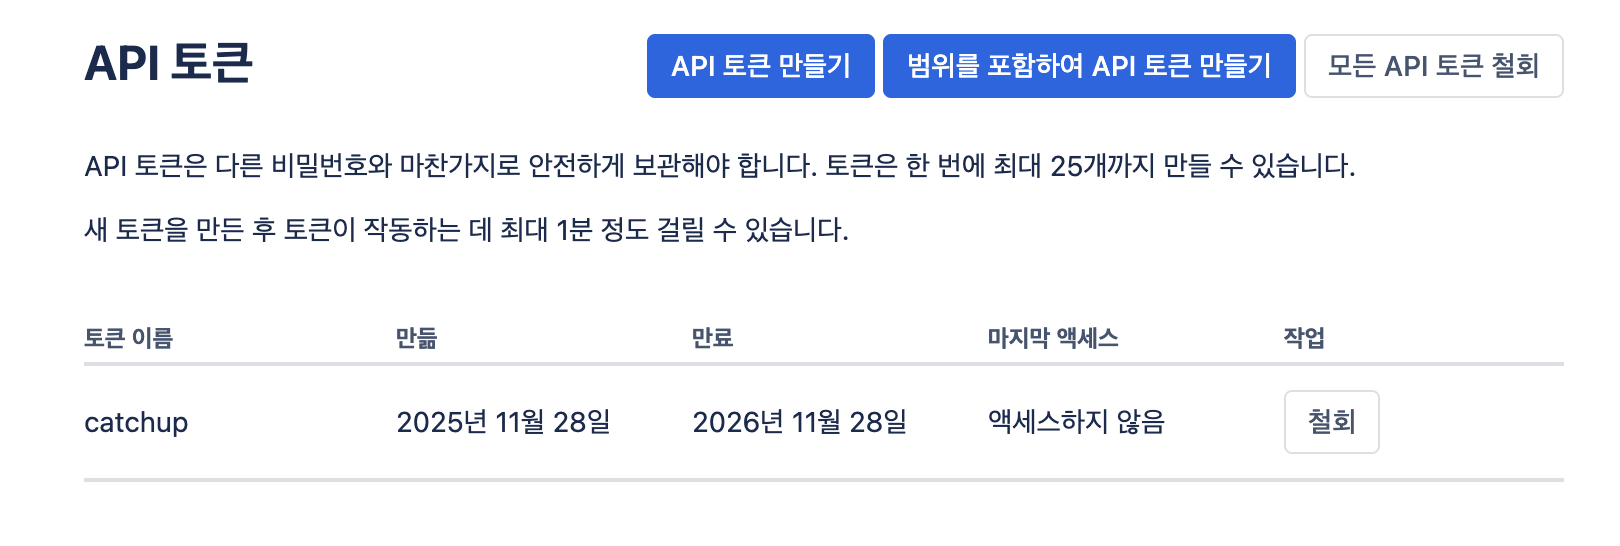
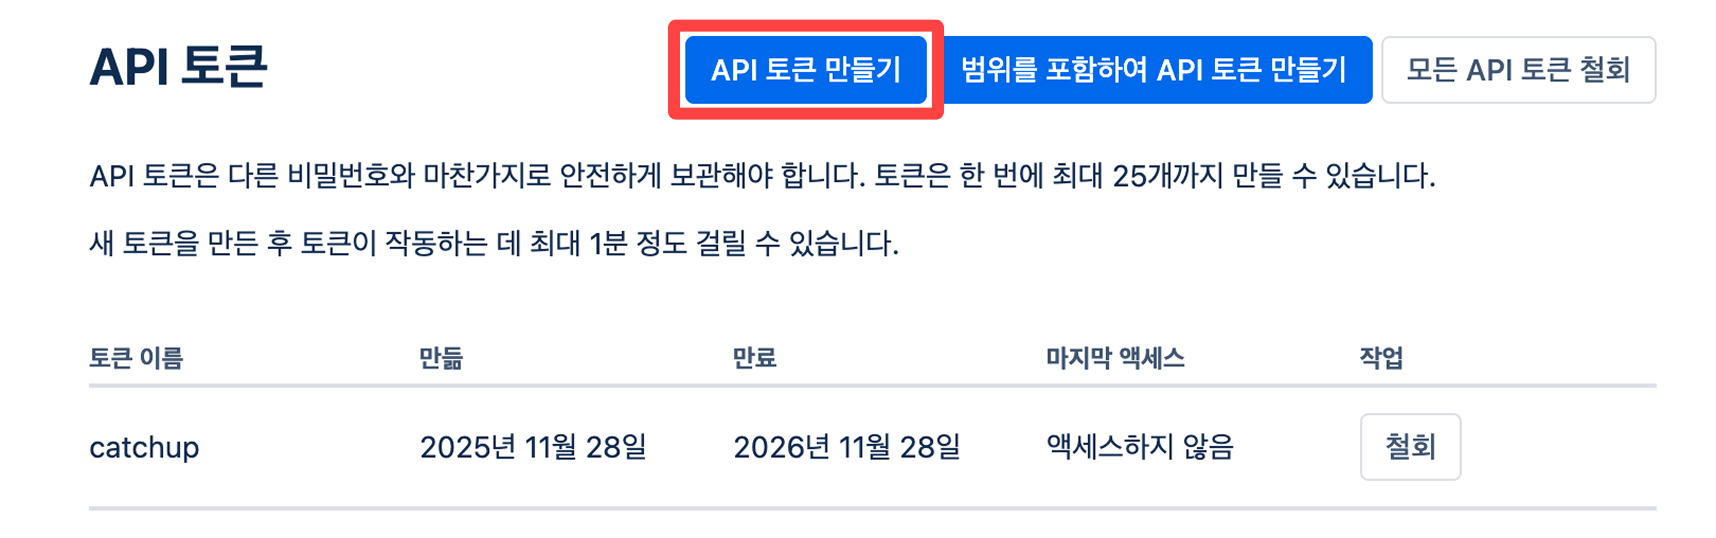
feat(frontend): syncFlush 동기화 버튼 연동 및 GitHub/Slack 가이드 섹션 추가

diff --git a/frontend/src/features/mypage/integrations/components/management/GithubGuideSection.tsx b/frontend/src/features/mypage/integrations/components/management/GithubGuideSection.tsx
@@ -1,0 +1,96 @@
+import Image from 'next/image';
+
+import { GITHUB_GUIDE_IMAGES, GITHUB_PROFILE_URL } from '../../constants/integrations';
+
+import IconGitHub from '/public/icons/logo/GitHub.svg';
+
+/** GitHub 연동 가이드 섹션 */
+const GithubGuideSection = () => {
+  return (
+    <div className="border-neutral-3 flex flex-col gap-10 overflow-clip rounded-xl border bg-white p-6">
+      {/* 인트로 */}
+      <div className="flex flex-col gap-2">
+        <h4 className="text-heading-medium text-gray-80">
+          코드가 담고 있는 맥락, 이제 한 번에 찾아요.
+        </h4>
+        <p className="text-label-small text-gray-80">
+          개발자의 코드는 확실한 결과물이지만, &apos;왜 이렇게 짰는지&apos;에 대한 맥락은 파편화되어
+          있습니다. PR을 뒤지고, 커밋 기록을 따라가다 보면 흐름이 끊기고 시간만 새게 되죠. Catch Up은
+          흩어진 코드의 맥락을 연결해, 팀이 다시 일의 흐름을 이어갈 수 있게 돕습니다.
+        </p>
+      </div>
+
+      {/* 1. GitHub 앱 설치 및 권한 승인 */}
+      <div className="flex flex-col gap-2">
+        <h4 className="text-heading-medium text-gray-80">1. GitHub 앱 설치 및 권한 승인</h4>
+        <div className="border-neutral-3 overflow-clip rounded-xl border bg-white px-4 py-2.5">
+          <Image
+            src={GITHUB_GUIDE_IMAGES.integrationPage}
+            alt="Catch Up 협업 툴 연동 페이지 - GitHub 계정 등록하기"
+            quality={100}
+            className="h-auto w-full"
+          />
+        </div>
+        <p className="text-label-small text-gray-80">
+          Catch Up 협업 툴 연동 페이지에서 &apos;계정 등록하기&apos; 버튼을 클릭합니다.
+        </p>
+        <div className="border-neutral-3 overflow-clip rounded-xl border bg-white px-4 py-2.5">
+          <Image
+            src={GITHUB_GUIDE_IMAGES.appInstall}
+            alt="GitHub 앱 설치 및 Organization 선택 화면"
+            quality={100}
+            className="h-auto w-full"
+          />
+        </div>
+        <p className="text-label-small text-gray-80">
+          이후 GitHub 연동 페이지로 이동하여 팀이 함께 볼 Organization을 선택하고 접근 권한을
+          승인해주세요.
+        </p>
+        <button
+          type="button"
+          onClick={() => window.open(GITHUB_PROFILE_URL, '_blank')}
+          className="border-neutral-4 flex cursor-pointer items-start gap-4 rounded-xl border px-3 py-2 text-left"
+        >
+          <div className="flex size-10 shrink-0 items-center justify-center bg-white">
+            <IconGitHub className="size-6" />
+          </div>
+          <div className="flex min-w-0 flex-col">
+            <span className="text-body-xsmall text-gray-80">GitHub account</span>
+            <span className="text-label-xsmall truncate text-gray-50">{GITHUB_PROFILE_URL}</span>
+          </div>
+        </button>
+      </div>
+
+      {/* 2. 동기화할 Repository 선택 */}
+      <div className="flex flex-col gap-2">
+        <h4 className="text-heading-medium text-gray-80">2. 동기화할 Repository 선택</h4>
+        <div className="border-neutral-3 overflow-clip rounded-xl border bg-white px-4 py-2.5">
+          <Image
+            src={GITHUB_GUIDE_IMAGES.repository}
+            alt="GitHub Repository 선택 화면"
+            quality={100}
+            className="h-auto w-full"
+          />
+        </div>
+        <p className="text-label-small text-gray-80">
+          권한이 확인된 Repository 목록 중, 팀의 지식으로 활용할 곳만 최종 선택합니다. 명시적으로
+          선택하지 않은 공간의 데이터는 절대 접근하지 않습니다.
+        </p>
+      </div>
+
+      {/* 3. Github 데이터의 지식화 */}
+      <div className="flex flex-col gap-2">
+        <h4 className="text-heading-medium text-gray-80">3. Github 데이터의 지식화</h4>
+        <p className="text-label-small text-gray-80">
+          동기화된 텍스트는 Catch Up의 AI가 요약하고 임베딩하여, 질문에 맞는 핵심 답과 코드
+          원문(딥링크)을 함께 제공할 준비를 마칩니다. 이후의 모든 업데이트는 실시간으로 반영됩니다.
+        </p>
+      </div>
+
+      {/* 클로징 */}
+      <p className="text-label-small text-black">찾느라 쓰던 시간, 이제 개발에 집중하세요</p>
+    </div>
+  );
+};
+
+export default GithubGuideSection;

diff --git a/frontend/src/features/mypage/integrations/components/management/SlackGuideSection.tsx b/frontend/src/features/mypage/integrations/components/management/SlackGuideSection.tsx
@@ -1,0 +1,68 @@
+import Image from 'next/image';
+
+import { SLACK_GUIDE_IMAGES } from '../../constants/integrations';
+
+/** Slack 연동 가이드 섹션 */
+const SlackGuideSection = () => {
+  return (
+    <div className="border-neutral-3 flex flex-col gap-10 overflow-clip rounded-xl border bg-white p-6">
+      {/* 인트로 */}
+      <div className="flex flex-col gap-2">
+        <h4 className="text-heading-medium text-gray-80">
+          결정이 내려진 순간의 대화, 휘발되지 않는 자산으로
+        </h4>
+        <p className="text-label-small text-gray-80">
+          공식 문서에는 없는 진짜 이유와 빠른 결정들은 보통 Slack 스레드 어딘가에 남아있습니다. 하지만
+          과거의 대화를 찾으려 스크롤을 올리는 일은 팀 전체의 시간 낭비입니다. Catch Up은 대화 속에 숨은
+          맥락을 찾아, 누가 알아? 하고 사람을 부르는 일을 줄여줍니다.
+        </p>
+      </div>
+
+      {/* 1. 워크스페이스 연결 */}
+      <div className="flex flex-col gap-2">
+        <h4 className="text-heading-medium text-gray-80">1. 워크스페이스 연결</h4>
+        <div className="border-neutral-3 overflow-clip rounded-xl border bg-white px-4 py-2.5">
+          <Image
+            src={SLACK_GUIDE_IMAGES.integrationPage}
+            alt="Catch Up 협업 툴 연동 페이지 - Slack 연동"
+            quality={100}
+            className="h-auto w-full"
+          />
+        </div>
+        <p className="text-label-small text-gray-80">
+          Catch Up 협업 툴 연동 페이지에서 &apos;계정 등록하기&apos; 버튼을 클릭합니다.
+        </p>
+        <p className="text-label-small text-gray-80">
+          Slack 연동 페이지에서 권한을 승인하고 연결할 Workspace를 선택합니다.
+        </p>
+      </div>
+
+      {/* 2. Catch Up 봇 초대 */}
+      <div className="flex flex-col gap-2">
+        <h4 className="text-heading-medium text-gray-80">2. Catch Up 봇 초대</h4>
+        <p className="text-label-small text-gray-80">
+          데이터 수집을 허용할 채널에 접속하여 /invite @CatchupConnector 명령어를 입력해 봇을
+          초대해주세요. 정보 보호를 위해 개인 간 다이렉트 메시지(DM) 및 그룹 DM은 철저히 연동 대상에서
+          제외됩니다.
+        </p>
+      </div>
+
+      {/* 3. 채널 확인 및 동기화 */}
+      <div className="flex flex-col gap-2">
+        <h4 className="text-heading-medium text-gray-80">3. 채널 확인 및 동기화</h4>
+        <p className="text-label-small text-gray-80">
+          Catch Up 화면에서 봇이 정상적으로 초대된 채널을 확인한 뒤 동기화를 시작합니다. 긴 스레드의
+          대화라도 AI가 핵심만 먼저 정리하여 답을 주고, 필요할 땐 원문 스레드로 바로 넘어가 전체 맥락을
+          확인할 수 있습니다.
+        </p>
+      </div>
+
+      {/* 클로징 */}
+      <p className="text-label-small text-black">
+        대화는 흘러가도, 팀이 합의한 지식은 남겨둡니다.
+      </p>
+    </div>
+  );
+};
+
+export default SlackGuideSection;

diff --git a/frontend/src/features/mypage/integrations/components/management/JiraGuideSection.tsx b/frontend/src/features/mypage/integrations/components/management/JiraGuideSection.tsx
@@ -23,26 +23,16 @@ const JiraGuideSection = () => {
       {/* 1. Atlassian 사이트 연결 및 권한 승인 */}
       <div className="flex flex-col gap-2">
         <h4 className="text-heading-medium text-gray-80">1. Atlassian 사이트 연결 및 권한 승인</h4>
-        <div className="border-neutral-3 relative overflow-clip rounded-xl border bg-white px-4 py-2.5">
-          <Image
-            src={JIRA_GUIDE_IMAGES.integrationPage}
-            alt="Catch Up 협업 툴 연동 페이지 - 연동하기 버튼"
-            quality={100}
-            className="h-auto w-full"
-          />
-          <div className="pointer-events-none absolute bottom-[20px] left-[21px] h-6 w-[125px] border-[3px] border-red-50 rounded-sm" />
-        </div>
         <p className="text-label-small text-gray-80">
-          Catch Up 협업 툴 연동 페이지에서 &apos;연동하기&apos; 버튼을 클릭합니다.
+          Catch Up 협업 툴 연동 페이지에서 &apos;계정 등록하기&apos; 버튼을 클릭합니다.
         </p>
-        <div className="border-neutral-3 relative overflow-clip rounded-xl border bg-white px-4 py-2.5">
+        <div className="border-neutral-3 overflow-clip rounded-xl border bg-white px-4 py-2.5">
           <Image
             src={JIRA_GUIDE_IMAGES.integrationPage}
-            alt="Catch Up 협업 툴 연동 페이지 - 사이트 선택"
+            alt="Catch Up 협업 툴 연동 페이지 - 계정 등록하기 버튼"
             quality={100}
             className="h-auto w-full"
           />
-          <div className="pointer-events-none absolute bottom-[20px] left-[21px] h-6 w-[125px] border-[3px] border-red-50 rounded-sm" />
         </div>
         <p className="text-label-small text-gray-80">
           Catch Up과 연결할 팀의 Site(예:{' '}
@@ -74,14 +64,13 @@ const JiraGuideSection = () => {
       {/* 2. 대상 Project / Space 지정 */}
       <div className="flex flex-col gap-2">
         <h4 className="text-heading-medium text-gray-80">2.대상 Project / Space 지정</h4>
-        <div className="border-neutral-3 relative overflow-clip rounded-xl border bg-white px-4 py-2.5">
+        <div className="border-neutral-3 overflow-clip rounded-xl border bg-white px-4 py-2.5">
           <Image
             src={JIRA_GUIDE_IMAGES.projectSpace}
             alt="Jira Project / Space 지정 화면"
             quality={100}
             className="h-auto w-full"
           />
-          <div className="pointer-events-none absolute left-[235px] top-[20px] h-[25px] w-[87px] border-[3px] border-red-50" />
         </div>
         <p className="text-label-small text-gray-80">
           연동 담당자가 열람할 수 있는 목록이 표시됩니다. 전체 데이터가 아닌, 동기화가 필요한 특정 Project와

diff --git a/frontend/src/features/mypage/integrations/components/management/IntegrationManagementSection.tsx b/frontend/src/features/mypage/integrations/components/management/IntegrationManagementSection.tsx
@@ -1,8 +1,13 @@
-import { cn } from '@/shared/utils/cn';
+import { useMutation } from '@tanstack/react-query';
+
+import api from '@/shared/api/client';
 import { API } from '@/shared/api/endpoints';
+import { cn } from '@/shared/utils/cn';
 
 import type { ConnectorDetail, IntegrationMenuItem, IntegrationService } from '../../types/integrations';
+import GithubGuideSection from './GithubGuideSection';
 import JiraGuideSection from './JiraGuideSection';
+import SlackGuideSection from './SlackGuideSection';
 
 import IconCloudCheckFilled from '/public/icons/icon/cloud_check_filled.svg';
 import IconCloudOff from '/public/icons/icon/cloud_off.svg';
@@ -41,6 +46,22 @@ const IntegrationManagementSection = ({
   onSelectService,
   detail,
 }: IntegrationManagementSectionProps) => {
+  const syncMutation = useMutation({
+    mutationKey: ['admin', 'connector', 'sync', selectedService] as const,
+    mutationFn: async () => {
+      switch (selectedService) {
+        case 'github':
+          return api.post(API.github.syncFlush);
+        case 'jira':
+          return api.post(API.jira.syncFlush);
+        case 'slack':
+          return api.post(API.slack.syncFlush);
+        case 'confluence':
+          return;
+      }
+    },
+  });
+
   return (
     <div className="flex gap-8">
       <div className="flex w-81.25 flex-col gap-4">
@@ -86,10 +107,12 @@ const IntegrationManagementSection = ({
             <div className="flex shrink-0 items-center gap-3">
               <button
                 type="button"
-                className="border-neutral-3 text-body-xsmall text-gray-70 flex h-7.5 min-w-7.5 cursor-pointer items-center justify-center gap-1 rounded-lg border bg-white px-2 py-1"
+                onClick={() => syncMutation.mutate()}
+                disabled={syncMutation.isPending || selectedService === 'confluence'}
+                className="border-neutral-3 text-body-xsmall text-gray-70 flex h-7.5 min-w-7.5 cursor-pointer items-center justify-center gap-1 rounded-lg border bg-white px-2 py-1 disabled:cursor-not-allowed disabled:opacity-50"
               >
                 <IconRotate className="text-gray-70 h-6 w-6" />
-                동기화
+                {syncMutation.isPending ? '동기화 중...' : '동기화'}
               </button>
             </div>
           </div>
@@ -156,7 +179,9 @@ const IntegrationManagementSection = ({
           </div>
         </div>
 
-        {selectedService === 'jira' && <JiraGuideSection />}
+        {(selectedService === 'jira' || selectedService === 'confluence') && <JiraGuideSection />}
+        {selectedService === 'github' && <GithubGuideSection />}
+        {selectedService === 'slack' && <SlackGuideSection />}
       </div>
     </div>
   );

diff --git a/frontend/src/features/mypage/integrations/constants/integrations.ts b/frontend/src/features/mypage/integrations/constants/integrations.ts
@@ -2,12 +2,31 @@
 
 import ImgGuideIntegrationPage from '/public/image/guide_integration_page.png';
 import ImgGuideProjectSpace from '/public/image/guide_project_space.png';
+import ImgGuideGithubIntegrationPage from '/public/image/guide_github_integration_page.png';
+import ImgGuideGithubAppInstall from '/public/image/guide_github_app_install.png';
+import ImgGuideGithubRepository from '/public/image/guide_github_repository.png';
+import ImgGuideSlackIntegrationPage from '/public/image/guide_slack_integration_page.png';
 
 /** Atlassian 계정 관리 페이지 링크 */
 export const ATLASSIAN_PROFILE_URL = 'https://id.atlassian.com/manage-profile/profile-and-visibility';
+
+/** GitHub 계정 관리 페이지 링크 */
+export const GITHUB_PROFILE_URL = 'https://github.com/apps/catchup-connector';
 
 /** Jira 가이드 이미지 리소스 */
 export const JIRA_GUIDE_IMAGES = {
   integrationPage: ImgGuideIntegrationPage,
   projectSpace: ImgGuideProjectSpace,
+};
+
+/** GitHub 가이드 이미지 리소스 */
+export const GITHUB_GUIDE_IMAGES = {
+  integrationPage: ImgGuideGithubIntegrationPage,
+  appInstall: ImgGuideGithubAppInstall,
+  repository: ImgGuideGithubRepository,
+};
+
+/** Slack 가이드 이미지 리소스 */
+export const SLACK_GUIDE_IMAGES = {
+  integrationPage: ImgGuideSlackIntegrationPage,
 };

diff --git a/frontend/src/features/mypage/integrations/hooks/useAdminIntegrationViewModel.ts b/frontend/src/features/mypage/integrations/hooks/useAdminIntegrationViewModel.ts
@@ -8,8 +8,8 @@ import type { AdminIntegrationViewModel, ConnectorDetail, IntegrationService } f
 
 const RESOURCE_LABELS: Record<IntegrationService, string> = {
   jira: '연동된 Jira Project',
-  github: '연동된 GitHub Repository',
-  slack: '연동된 Slack Channel',
+  github: '연동된 Repository',
+  slack: 'Catch Up Slack Bot이 추가된 채널',
   confluence: '연동된 Confluence Space',
 };
 
